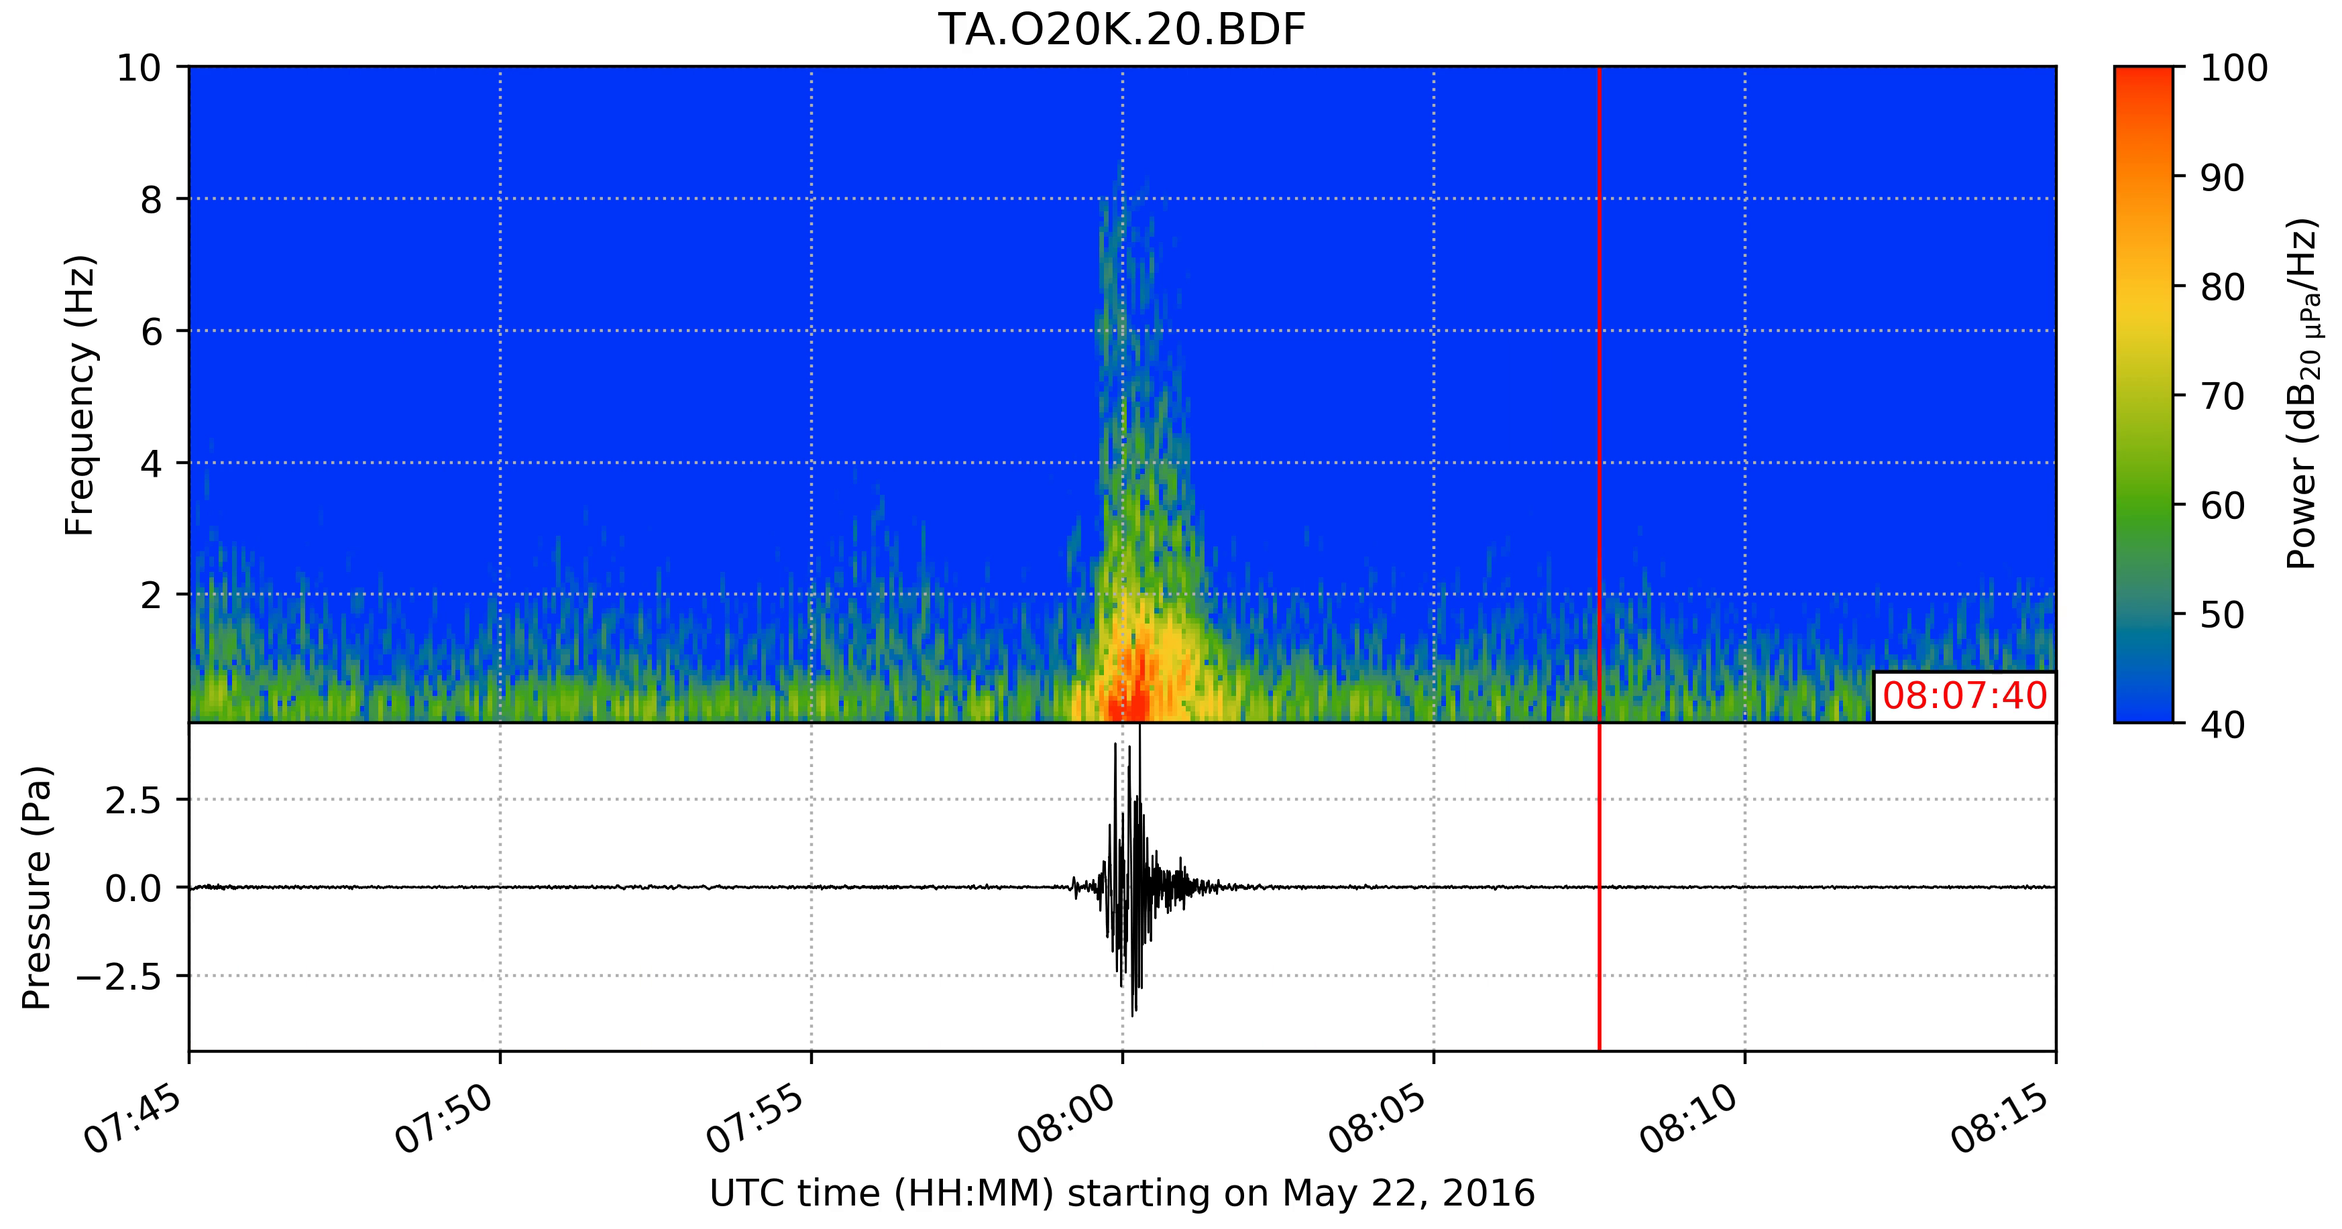
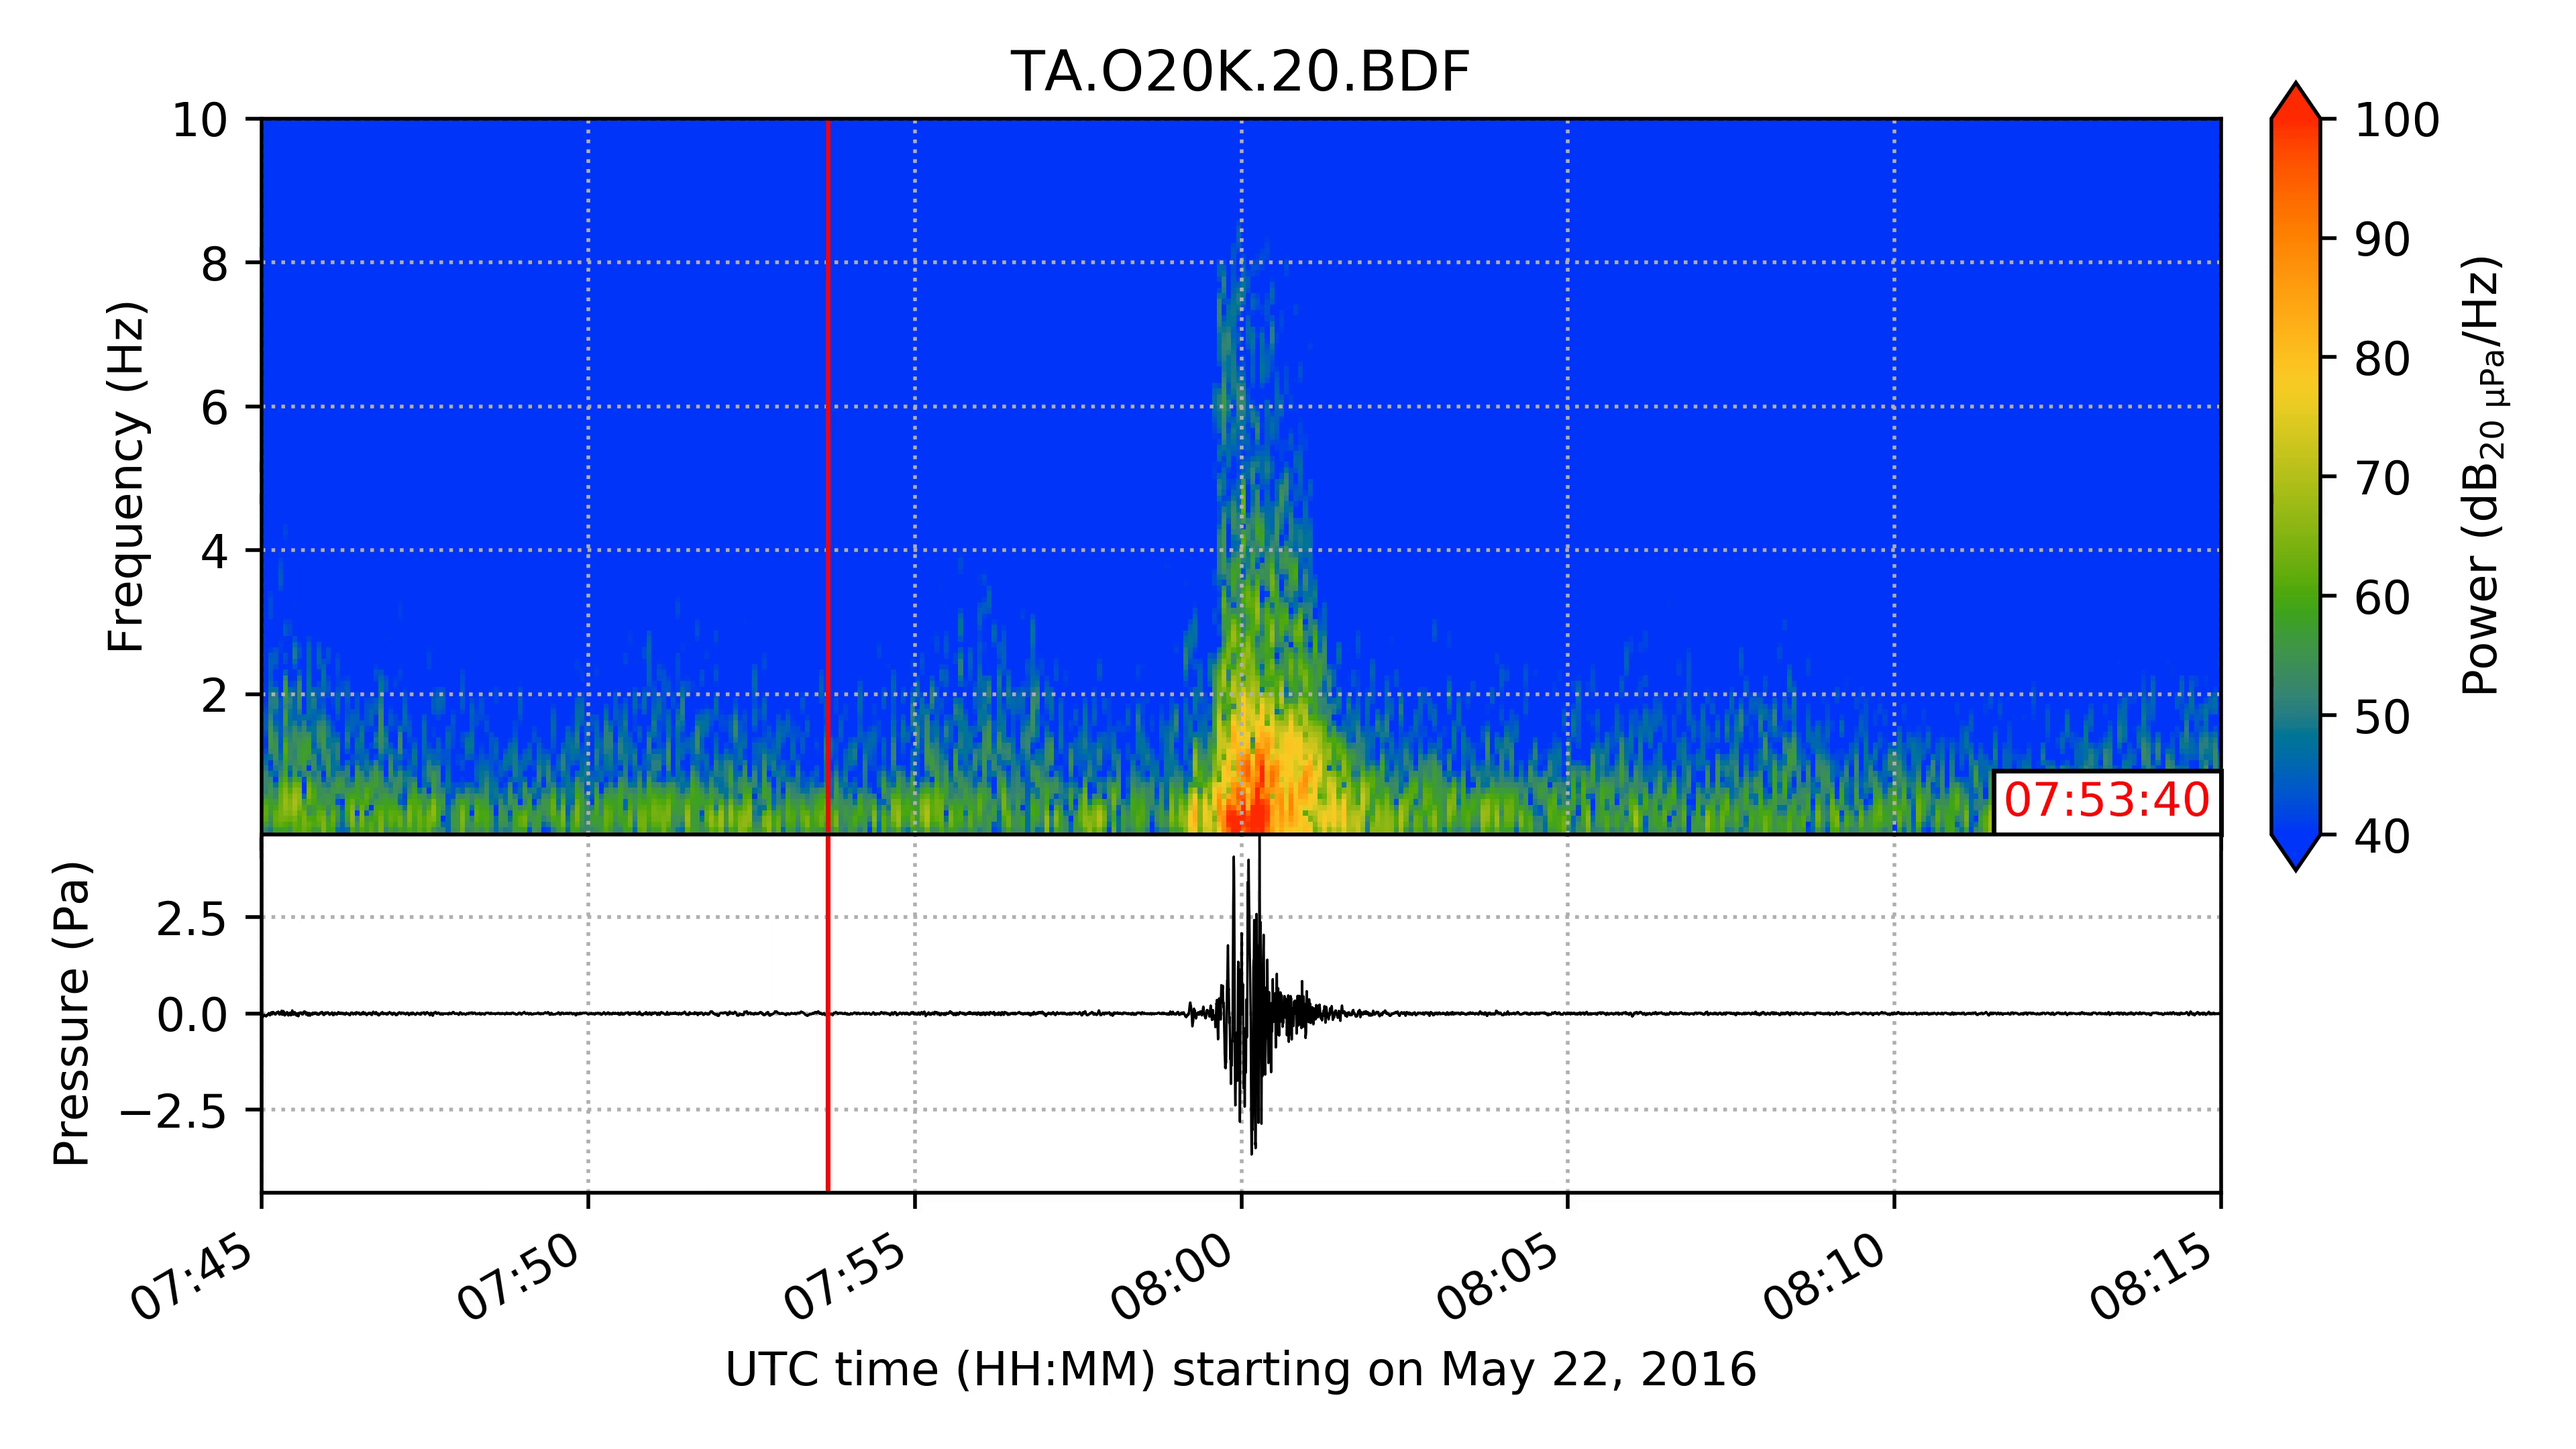
Use GridSpec for plotting; fancier colorbar setup; DPI increase

diff --git a/sonify/sonify.py b/sonify/sonify.py
@@ -9,6 +9,7 @@ from obspy import UTCDateTime
 import os
 from matplotlib.animation import FuncAnimation
 from matplotlib.offsetbox import AnchoredText
+from matplotlib.gridspec import GridSpec
 import subprocess
 
 plt.ioff()
@@ -22,7 +23,7 @@ AUDIO_SAMPLE_RATE = 44100  # [Hz]
 TAPER = 0.01
 
 RESOLUTION = (3840, 2160)  # [px] Output video resolution (width, height)
-DPI = 400
+DPI = 500
 
 # For spectrograms
 REFERENCE_PRESSURE = 20e-6  # [Pa]
@@ -30,6 +31,7 @@ REFERENCE_VELOCITY = 1  # [m/s]
 
 MS_PER_S = 1000  # [ms/s]
 
+EXTENDFRAC = 0.05  # Colorbar extension triangle height as proportion of colorbar length
 
 def sonify(
     network,
@@ -242,37 +244,38 @@ def _spectrogram(
 
     t_mpl = tr.stats.starttime.matplotlib_date + (t / mdates.SEC_PER_DAY)
 
-    fig, axes = plt.subplots(
-        nrows=2,
-        ncols=1,
-        sharex='all',
-        figsize=np.array(RESOLUTION) / DPI,
-        gridspec_kw=dict(height_ratios=[2, 1], hspace=0),
-    )
+    fig = plt.figure(figsize=np.array(RESOLUTION) / DPI)
 
-    axes[1].plot(tr.times('matplotlib'), tr.data * rescale, 'k', linewidth=0.5)
-    axes[1].set_ylabel(ylab)
-    axes[1].grid(linestyle=':')
+    # width_ratios effectively controls the colorbar width
+    gs = GridSpec(2, 2, figure=fig, height_ratios=[2, 1], width_ratios=[40, 1])
+
+    spec_ax = fig.add_subplot(gs[0, 0])
+    wf_ax = fig.add_subplot(gs[1, 0], sharex=spec_ax)  # Share time axis with spectrogram
+    cax = fig.add_subplot(gs[0, 1])
+
+    wf_ax.plot(tr.times('matplotlib'), tr.data * rescale, 'k', linewidth=0.5)
+    wf_ax.set_ylabel(ylab)
+    wf_ax.grid(linestyle=':')
     max_value = np.abs(tr.copy().trim(starttime, endtime).data).max() * rescale
-    axes[1].set_ylim(-max_value, max_value)
+    wf_ax.set_ylim(-max_value, max_value)
 
-    im = axes[0].pcolormesh(t_mpl, f, sxx_db, cmap=cc.m_rainbow, rasterized=True)
+    im = spec_ax.pcolormesh(t_mpl, f, sxx_db, cmap=cc.m_rainbow, rasterized=True)
 
-    axes[0].set_ylabel('Frequency (Hz)')
-    axes[0].grid(linestyle=':')
-    axes[0].set_ylim(freq_lim)
+    spec_ax.set_ylabel('Frequency (Hz)')
+    spec_ax.grid(linestyle=':')
+    spec_ax.set_ylim(freq_lim)
 
     date = tr.stats.starttime.strftime('%B %d, %Y')
-    axes[1].set_xlabel('UTC time (HH:MM) starting on {}'.format(date))
-    axes[1].set_xlim(starttime.matplotlib_date, endtime.matplotlib_date)
-    axes[1].xaxis_date()
-    formatter = axes[1].xaxis.set_major_formatter(mdates.DateFormatter('%H:%M'))
+    wf_ax.set_xlabel('UTC time (HH:MM) starting on {}'.format(date))
+    wf_ax.set_xlim(starttime.matplotlib_date, endtime.matplotlib_date)  # "Crop" x-axis!
+    wf_ax.xaxis_date()
+    formatter = wf_ax.xaxis.set_major_formatter(mdates.DateFormatter('%H:%M'))
     fig.autofmt_xdate()
 
     # Initialize animated stuff
     line_kwargs = dict(x=starttime.matplotlib_date, color='red', linewidth=1)
-    spec_line = axes[0].axvline(**line_kwargs)
-    wf_line = axes[1].axvline(**line_kwargs)
+    spec_line = spec_ax.axvline(**line_kwargs)
+    wf_line = wf_ax.axvline(**line_kwargs)
     time_box = AnchoredText(
         s=starttime.strftime('%H:%M:%S'),
         pad=0.2,
@@ -280,25 +283,58 @@ def _spectrogram(
         borderpad=0,
         prop=dict(color='red'),
     )
-    axes[0].add_artist(time_box)
+    spec_ax.add_artist(time_box)
 
+    # Clip image to db_lim if provided (doesn't clip if db_lim=None)
     im.set_clim(db_lim)
 
-    # Make room for colorbar in figure window
-    fig.subplots_adjust(right=0.85)
+    # Automatically determine whether to show triangle extensions on colorbar (kind of
+    # adopted from xarray)
+    if db_lim:
+        min_extend = sxx_db.min() < db_lim[0]
+        max_extend = sxx_db.max() > db_lim[1]
+    else:
+        min_extend = False
+        max_extend = False
+    if min_extend and max_extend:
+        extend = 'both'
+    elif min_extend:
+        extend = 'min'
+    elif max_extend:
+        extend = 'max'
+    else:
+        extend='neither'
 
-    box = axes[0].get_position()
-    cax = fig.add_axes(
-        [box.xmax + box.height / 20, box.y0, box.height / 20, box.height]
-    )
-    cbar = fig.colorbar(im, cax)
-    cbar.set_label(clab)
+    cbar = fig.colorbar(im, cax, extend=extend, extendfrac=EXTENDFRAC, label=clab)
 
-    axes[0].set_title(
+    spec_ax.set_title(
         '.'.join(
             [tr.stats.network, tr.stats.station, tr.stats.location, tr.stats.channel]
         )
     )
+
+    # Repeat tight_layout and update, janky but works...
+    for _ in range(2):
+        gs.tight_layout(fig)
+        gs.update(hspace=0, wspace=0.05)
+
+    # Finnicky formatting to get extension triangles (if they exist) to extend above and
+    # below the vertical extent of the spectrogram axes
+    pos = cax.get_position()
+    triangle_height = EXTENDFRAC * pos.height
+    ymin = pos.ymin
+    height = pos.height
+    if min_extend and max_extend:
+        ymin -= triangle_height
+        height += 2 * triangle_height
+    elif min_extend and not max_extend:
+        ymin -= triangle_height
+        height += triangle_height
+    elif max_extend and not min_extend:
+        height += triangle_height
+    else:
+        pass
+    cax.set_position([pos.xmin, ymin, pos.width, height])
 
     return fig, spec_line, wf_line, time_box
 
